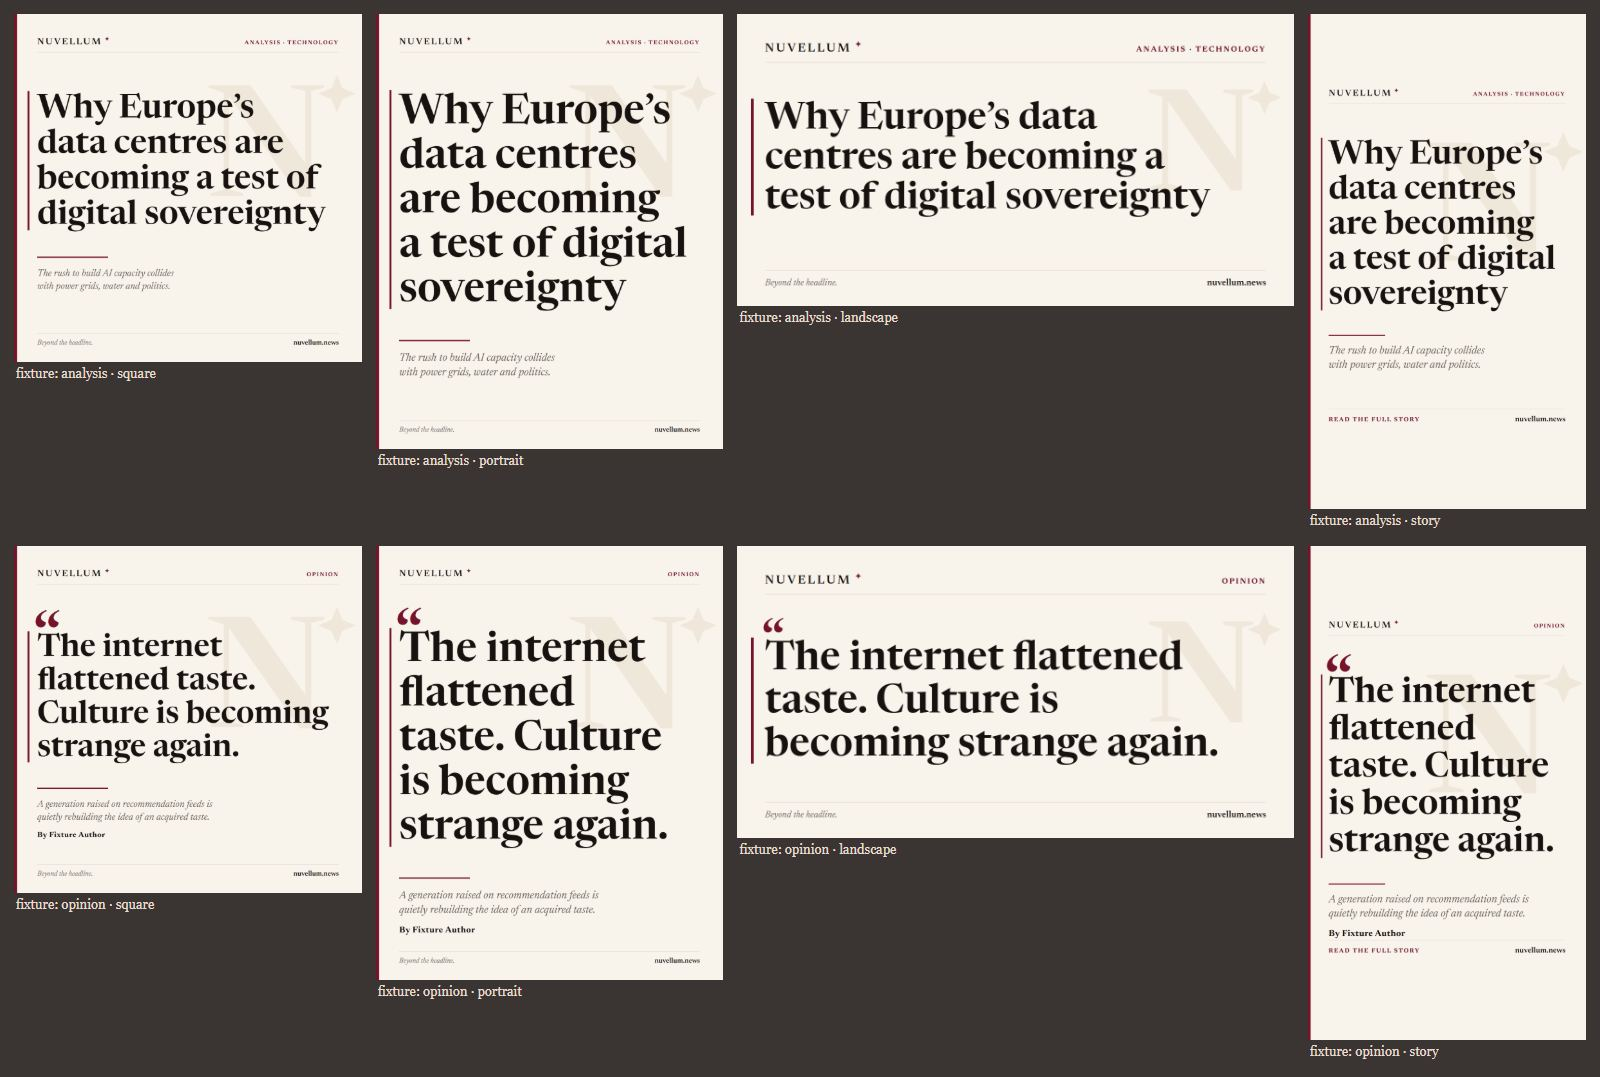
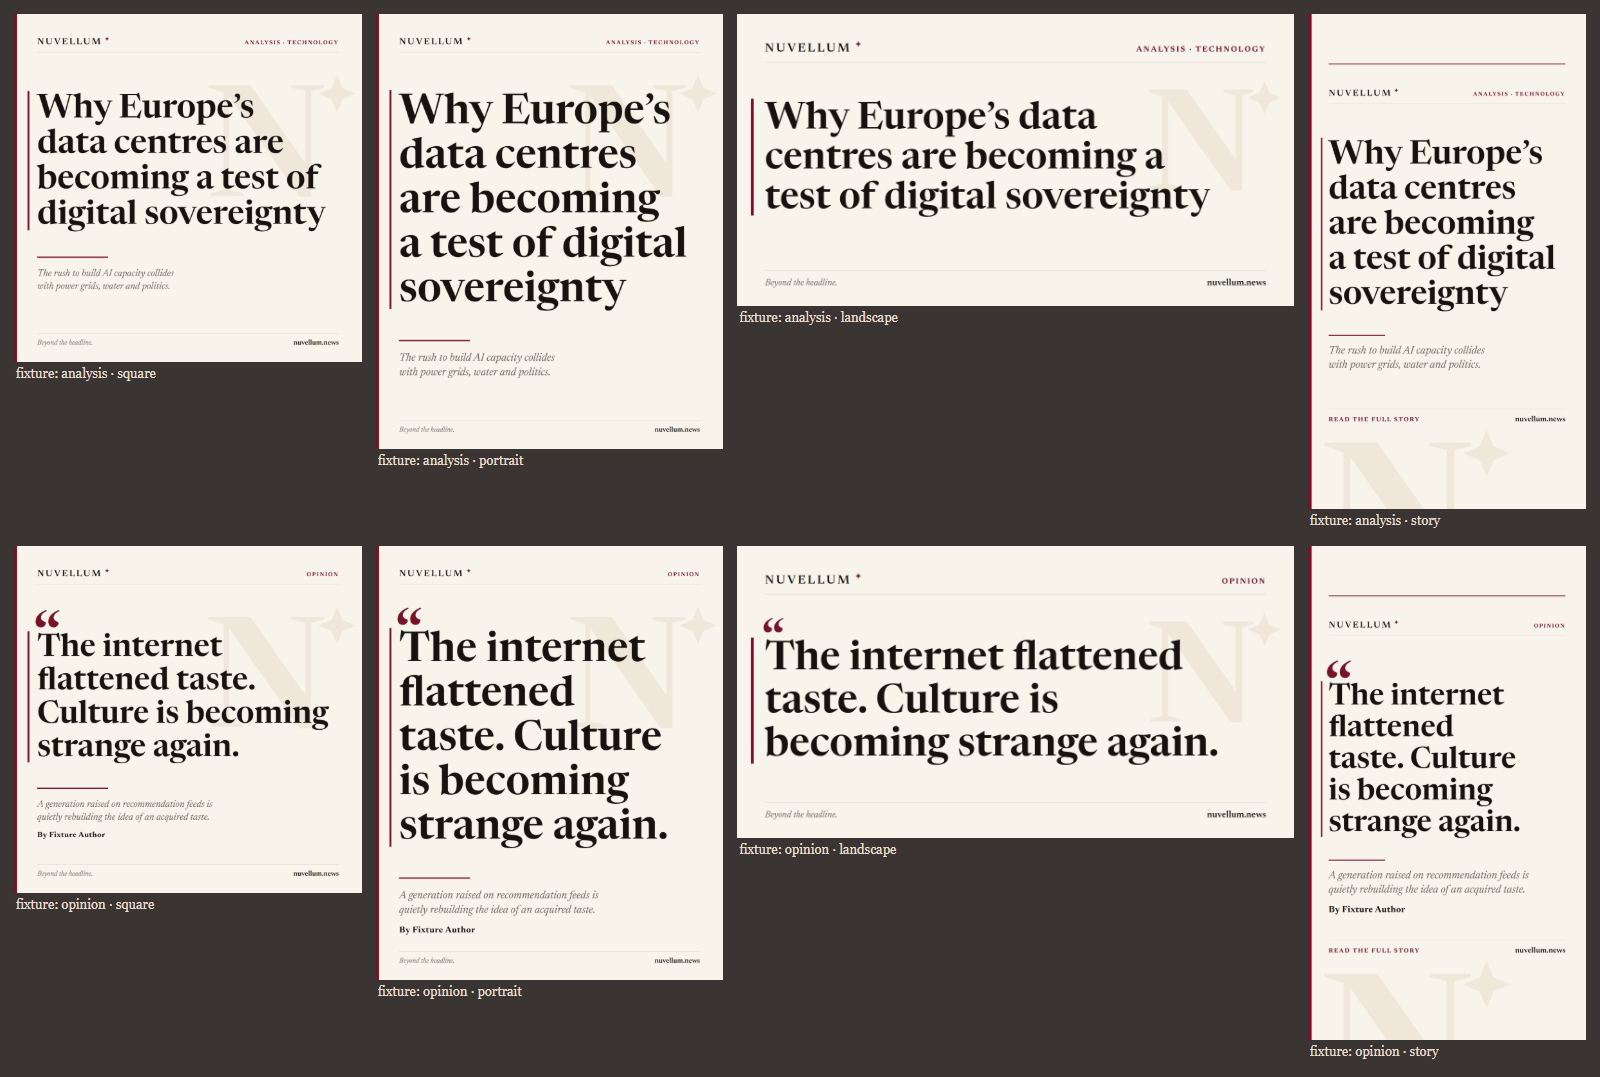
Social cards: polish the 1080x1920 Story/Reel/Short covers
- Centre the picture composition between header and footer (no dead space above
  the footer).
- Platform zones stay content-free but read as deliberate: a burgundy-over-
  hairline masthead rule above y=250 and a large, faint N-star monogram rising
  from the bottom edge below y=1600 (marked data-decor; one monogram per cover).
- 14px spine on Story covers; Story Opinion/Analysis reserves room for dek and
  byline so they no longer crowd the footer rule.
- Tests: all Story content within y=250-1600 with only marked decoration
  outside; centred photo composition. Other formats are byte-identical.
- Review sheet docs/social-cards/8-story-covers.jpg; sheets re-rendered.

Changed region(s): [[0.8125, 0.6128, 0.9688, 0.8886]]

diff --git a/WORKLOG.md b/WORKLOG.md
@@ -35,6 +35,13 @@ Rebased onto main after #126 and #134–#139 merged. It changes none of them, no
   - death-toll "key facts" on sensitive stories (such cards are now skipped).
 - **Tests:** `engines/tests/cards-system.test.mjs` (17, including an opt-in Chromium test) plus updated `cards.test.mjs`. Engines suite: 36 (35 pass + the Chromium test, which also passes with `CARDS_CHROME=1`).
 - **Review sheets:** `docs/social-cards/*.jpg`.
+- **Story-cover polish** (1080×1920 only; safe zones unchanged). Everything was re-checked in Chrome at full size: 68 cards, 0 overflow.
+  - The photo composition is centred between header and footer; the dead space above the footer has gone.
+  - A burgundy-over-hairline masthead rule sits above y=250 (the breaking band fills that zone instead).
+  - A large, faint N✦ monogram rises from the bottom edge below y=1600, its star clear of the footer labels. It is marked `data-decor`, and text-led covers carry this one monogram instead of a second.
+  - The spine is 14 px.
+  - The Story Opinion/Analysis layout now reserves room for the dek and byline, which previously crowded the footer rule.
+  - New tests: all Story content between y=250 and y=1600 with only marked decoration outside it, and a centred photo composition. Sheet: `docs/social-cards/8-story-covers.jpg`.
 
 ## 2026-09-30: v1 launch programme, Phase 10: real-site QA sweep (production)
 

diff --git a/docs/SOCIAL_CARDS.md b/docs/SOCIAL_CARDS.md
@@ -18,7 +18,7 @@ Output goes to `engines/out/social-cards/<slug>/` (gitignored). In GitHub Action
 | `square.svg` | 1080×1080 | X, Facebook, LinkedIn, Threads, Telegram feed | 72 px margins |
 | `landscape.svg` | 1200×630 | link card / og:image, X large summary, Telegram | 60 px margins |
 | `portrait.svg` | 1080×1350 | Instagram / Facebook feed | 72 px margins |
-| `story.svg` | 1080×1920 | Stories, Reel/Short and TikTok covers | content only between y=250 and y=1600 (platform UI covers the rest); 80 px sides |
+| `story.svg` | 1080×1920 | Stories, Reel/Short and TikTok covers | content only between y=250 and y=1600 (platform UI covers the rest); 80 px sides. The zones outside hold only marked decoration: a masthead double rule above (or the breaking band) and a large, faint N✦ monogram rising from the bottom edge. The composition is centred between header and footer, and the spine is 14 px. |
 | `quote-square.svg`, `quote-portrait.svg` | 1080×1080, 1080×1350 | pull quote / key fact (only when the article has a suitable line) | as above |
 
 ## Templates (chosen automatically, or with `--variant`)
